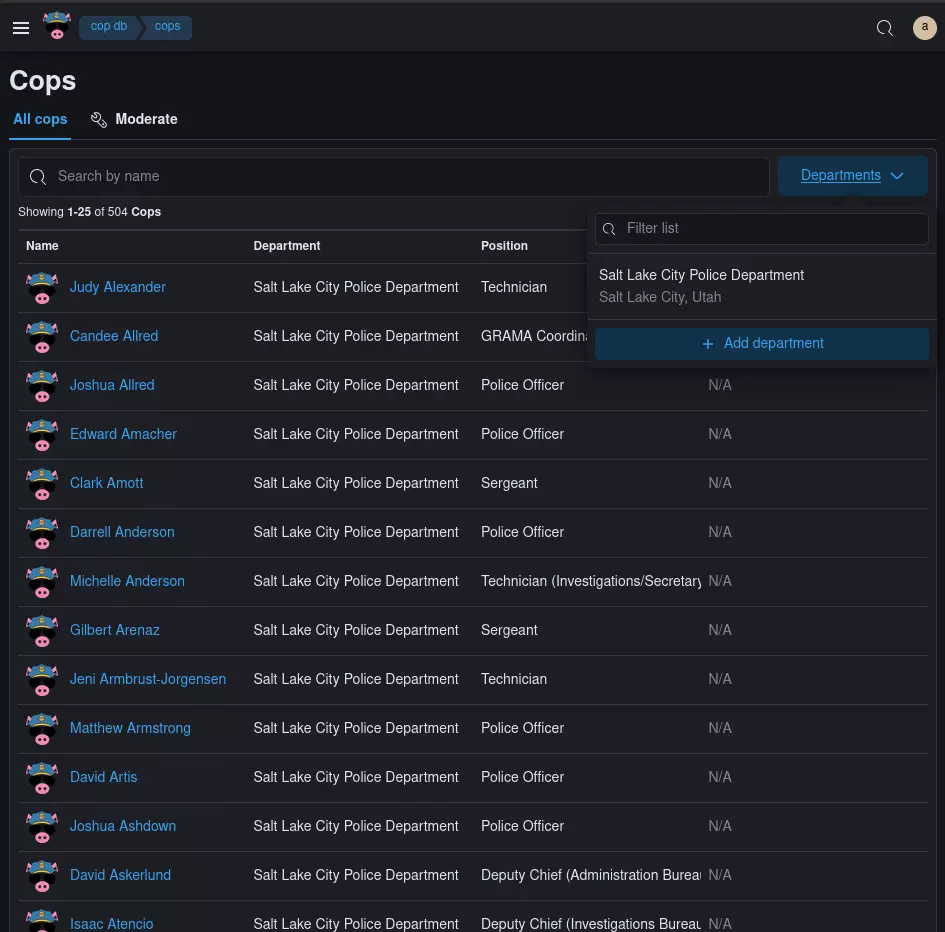
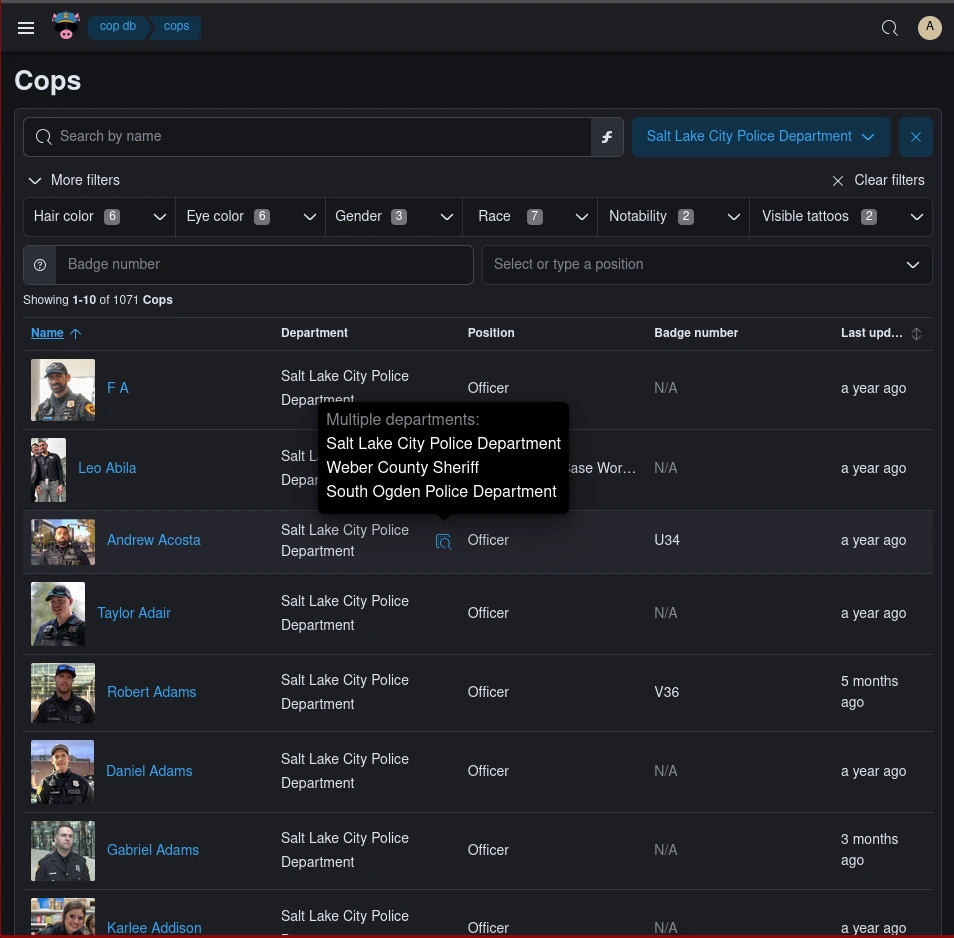
updated cop db screenshots

diff --git a/utils/content.ts b/utils/content.ts
@@ -96,10 +96,15 @@ export const projectDescriptions: ProjectDescription[] = [
     projectUrl: 'https://app.copdb.org',
     description: `Community-moderated police and incident database. It tracks police officers, their departments, and incidents or misconduct they're involved in.`,
     images: [
+      { url: '/copdb/department-view.webp', caption: 'Police department view' },
       { url: '/copdb/cops-list.webp', caption: 'Cops table view' },
       { url: '/copdb/incident-view.webp', caption: 'Reported incident view' },
-      { url: '/copdb/report-incident.webp', caption: 'Draft incnident report' },
-      { url: '/copdb/report-media.webp', caption: 'Report media' },
+      {
+        url: '/copdb/incident-view-suggest-edit.webp',
+        caption: 'Suggest edit to an incident',
+      },
+      { url: '/copdb/report-incident.webp', caption: 'Report an incident' },
+      { url: '/copdb/report-cops.webp', caption: 'Report cops' },
     ],
     techStack: {
       frontend: ['React', 'MobX', 'Emotion'],
